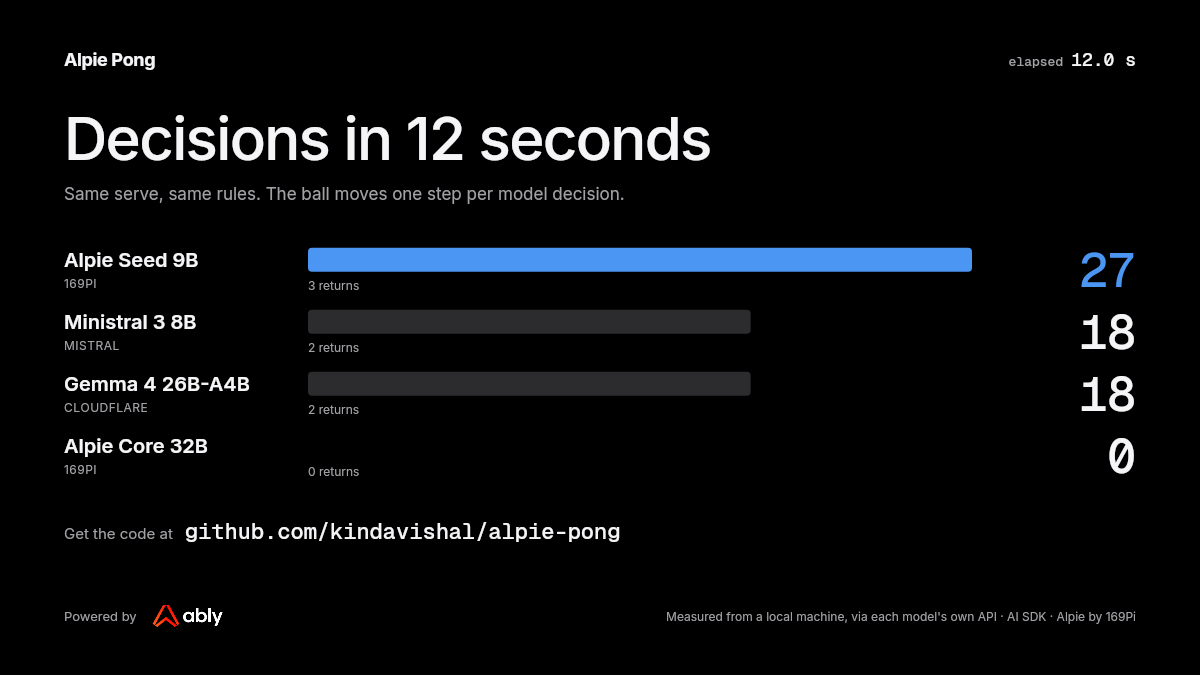
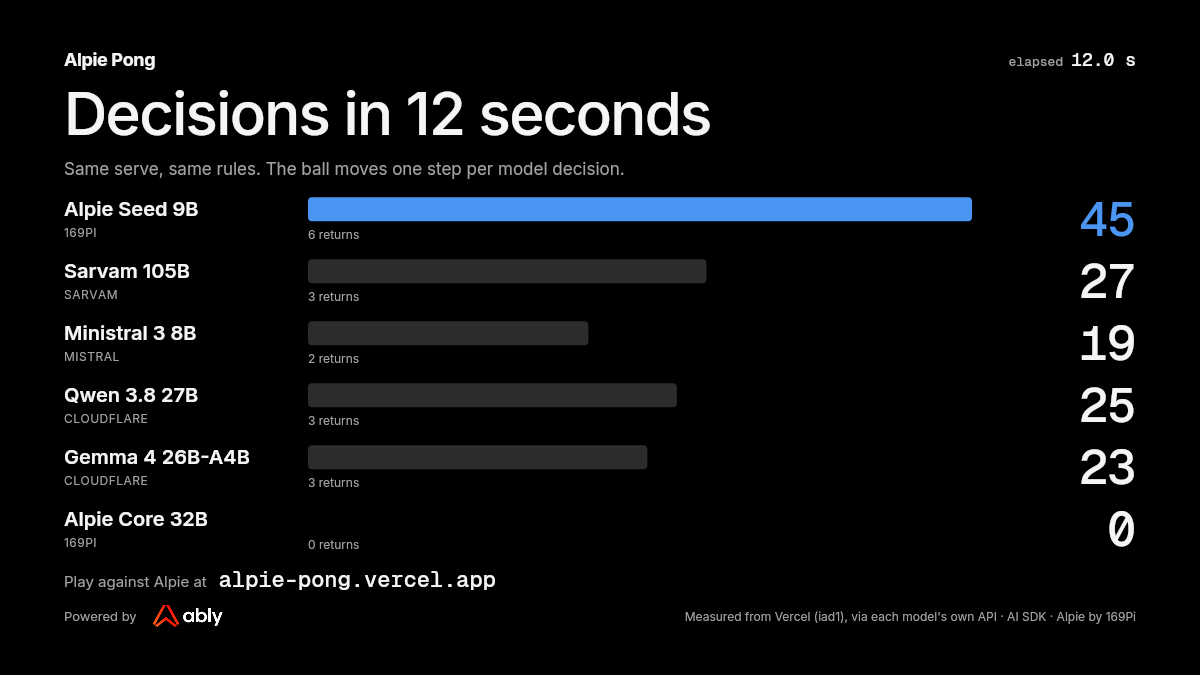
Re-record the six-lane race from the deployment
public/replay.json is now a 45 s recording from the deployed site, in a
Vercel function in iad1, each model through its own API, with no failed
calls: Alpie Seed 173 decisions at 261 ms on average, Sarvam 105B 116 at
389 ms, Ministral 3 8B 78 at 580 ms, Qwen 3.8 27B 75 at 607 ms, Gemma 4
26B-A4B 38 at 989 ms, Alpie Core 4 at 14.5 s.

The measurement line, the README's race table and the GIF and end card
follow it. The README says the latencies include network distance:
Alpie's endpoint is in San Jose and Sarvam's API in Mumbai, so a race
run from India could change their order.

diff --git a/lib/config/site.ts b/lib/config/site.ts
@@ -17,12 +17,11 @@ export const TAGLINE =
   'Pong where the ball moves one step per model decision. Slow model, slow ball.';
 
 /**
- * Where the recorded run was measured from, via POST /api/record. The race was
- * recorded from a local `pnpm dev`, each lane through its own model's API, so
- * the latencies include that machine's network. Change this in one place when
- * the run is re-recorded from a deployment.
+ * Where the recorded run was measured from: POST /api/record on the deployed
+ * site, whose functions run in Vercel's iad1 region, each lane through its own
+ * model's API. Change this in one place if the run is re-recorded elsewhere.
  */
-export const MEASUREMENT = "a local machine, via each model's own API";
+export const MEASUREMENT = "Vercel (iad1), via each model's own API";
 
 /** The credit line under every surface. */
 export const CREDIT_PARTS = ['AI SDK', 'Alpie by 169Pi'] as const;

diff --git a/README.md b/README.md
@@ -2,7 +2,7 @@
 
 Pong where the ball moves one step per model decision. Slow model, slow ball.
 
-![Four Pong lanes, one per model. Alpie Seed's blue ball crosses the court again and again while Alpie Core's has barely left the centre line.](public/media/clip-wide.gif)
+![Six Pong lanes, one per model. Alpie Seed's blue ball crosses the court again and again while Alpie Core's has barely left the centre line.](public/media/clip-wide.gif)
 
 Alpie Pong races **Alpie Seed**, 169Pi's 9B model, against other models in a game that will not wait. Every lane plays the same game, asked the same question, and every ball moves only when its model answers. The time beside each court is the round trip of that one model call and nothing else.
 
@@ -23,18 +23,20 @@ Created by Vishal Das. Inspired by [Jev Pong](https://github.com/ably-labs/jev-p
 
 The rivals are chosen to be fair to Alpie Seed: about its size or larger, answering without thinking first, and free to start on with no credit card, as Alpie is.
 
-Recorded on 25 October 2026 from a local machine, each model through its own API, 45 seconds per lane:
+Recorded on 25 October 2026 from the deployed site, in a Vercel function in iad1 (Washington, D.C.), each model through its own API, 45 seconds per lane:
 
 | Lane | Decisions | Per second | Average | p95 | Returns |
 |---|---|---|---|---|---|
-| **Alpie Seed 9B** | **110** | **2.44** | **410 ms** | 404 ms | 14 |
-| Ministral 3 8B | 76 | 1.67 | 600 ms | 1,111 ms | 9 |
-| Gemma 4 26B-A4B | 62 | 1.37 | 732 ms | 1,851 ms | 8 |
-| Alpie Core 32B | 4 | 0.07 | 14.9 s | 17.4 s | 0 |
+| **Alpie Seed 9B** | **173** | **3.84** | **261 ms** | 260 ms | 22 |
+| Sarvam 105B | 116 | 2.57 | 389 ms | 514 ms | 14 |
+| Ministral 3 8B | 78 | 1.72 | 580 ms | 1,090 ms | 10 |
+| Qwen 3.8 27B | 75 | 1.65 | 607 ms | 1,617 ms | 9 |
+| Gemma 4 26B-A4B | 38 | 1.01 | 989 ms | 2,344 ms | 5 |
+| Alpie Core 32B | 4 | 0.07 | 14.5 s | 15.2 s | 0 |
 
-![Decisions in 12 seconds: Alpie Seed 9B 27, Ministral 3 8B 18, Gemma 4 26B-A4B 18, Alpie Core 32B 0.](public/media/clip-endcard-wide.png)
+![Decisions in 12 seconds: Alpie Seed 9B 45, Sarvam 105B 27, Ministral 3 8B 19, Qwen 3.8 27B 25, Gemma 4 26B-A4B 23, Alpie Core 32B 0.](public/media/clip-endcard-wide.png)
 
-These figures include the recording machine's network, so treat them as a local run, not a benchmark. Every number on the site is read from `public/replay-stats.json`; nothing is typed in by hand. Re-record from a deployment before quoting them (see [Re-recording](#re-recording)).
+Each latency is the round trip from that server to the model's own API, so it includes the network distance to wherever the provider serves the model. From iad1, Alpie's endpoint in San Jose is nearer than Sarvam's API in Mumbai, while Mistral and Cloudflare answer from their nearest edge; from a server in India the order between Alpie Seed and Sarvam could change. Every number on the site is read from `public/replay-stats.json`; nothing is typed in by hand.
 
 ### Models we tried and left out
 
